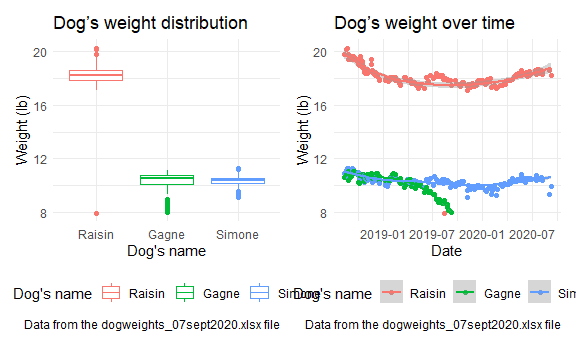
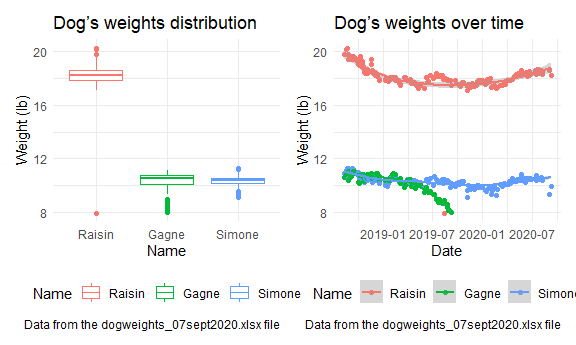
Some comments

diff --git a/p8105_mtp_cz2612.md b/p8105_mtp_cz2612.md
@@ -41,7 +41,11 @@ abnormal date “s”, introduced by data entry mistakes, should be dropped.
 There are also some data entry mistakes with weights variables. They are
 measured in Lbs and Oz, but both figures are stored in the same cell.
 Therefore, we need to separate these figures, and convert them into a
-single figure measured in Lbs.
+single figure measured in Lbs. Since dog’s weight shouldn’t change very
+drastically in a short time, we assume that Raisin’s weight on August
+14, 2018 may also be a data entry mistake, and it might be 17 lbs
+instead of 7 lbs. However, without any evidence or additional
+information, we leave this value unchanged.
 
 Second, we import and tidy the dog weights data. After importing the
 data and cleaning the variable names, we convert the date and weights
@@ -183,12 +187,12 @@ weight_distr_plot =
   ggplot(aes(x = name, y = weight, color = name)) +
   geom_boxplot() +
   labs(
-    title = "Dog’s weight distribution",
-    x = "Dog's name",
+    title = "Dog’s weights distribution",
+    x = "Name",
     y = "Weight (lb)",
     caption = "Data from the dogweights_07sept2020.xlsx file"
   ) +
-  scale_color_hue(name = "Dog's name")
+  scale_color_hue(name = "Name")
 
 weight_time_plot =
   dogweights_stat_df %>% 
@@ -209,12 +213,12 @@ weight_time_plot =
   geom_point() +
   geom_smooth() +
   labs(
-    title = "Dog’s weight over time",
+    title = "Dog’s weights over time",
     x = "Date",
     y = "Weight (lb)",
     caption = "Data from the dogweights_07sept2020.xlsx file"
   ) +
-  scale_color_hue(name = "Dog's name")
+  scale_color_hue(name = "Name")
 
 weight_distr_plot + weight_time_plot
 ```
@@ -233,7 +237,11 @@ From the graphs, we could see that Raisin is the heaviest dog, while
 Simone is the lightest one. We could also find out that the weights of
 Raisin and Simone slowly decreased first, and then gradually increased.
 However, generally speaking, Gagne’s weight was decreasing till its
-death.
+death. There is also an outlier of Raisin’s weight on August 14, 2018.
+Considering its weights on the nearest days, this outlier seems like a
+data entry mistake. Because the dog’s weight shouldn’t change so
+drastically in such a short time. However, we need more information to
+assess our assumptions.
 
 ``` r
 wordcountaddin::text_stats("p8105_mtp_cz2612.Rmd")
@@ -241,7 +249,7 @@ wordcountaddin::text_stats("p8105_mtp_cz2612.Rmd")
 
 | Method          | koRpus      | stringi       |
 | :-------------- | :---------- | :------------ |
-| Word count      | 376         | 374           |
-| Character count | 2285        | 2285          |
-| Sentence count  | 28          | Not available |
-| Reading time    | 1.9 minutes | 1.9 minutes   |
+| Word count      | 480         | 472           |
+| Character count | 2863        | 2863          |
+| Sentence count  | 34          | Not available |
+| Reading time    | 2.4 minutes | 2.4 minutes   |
